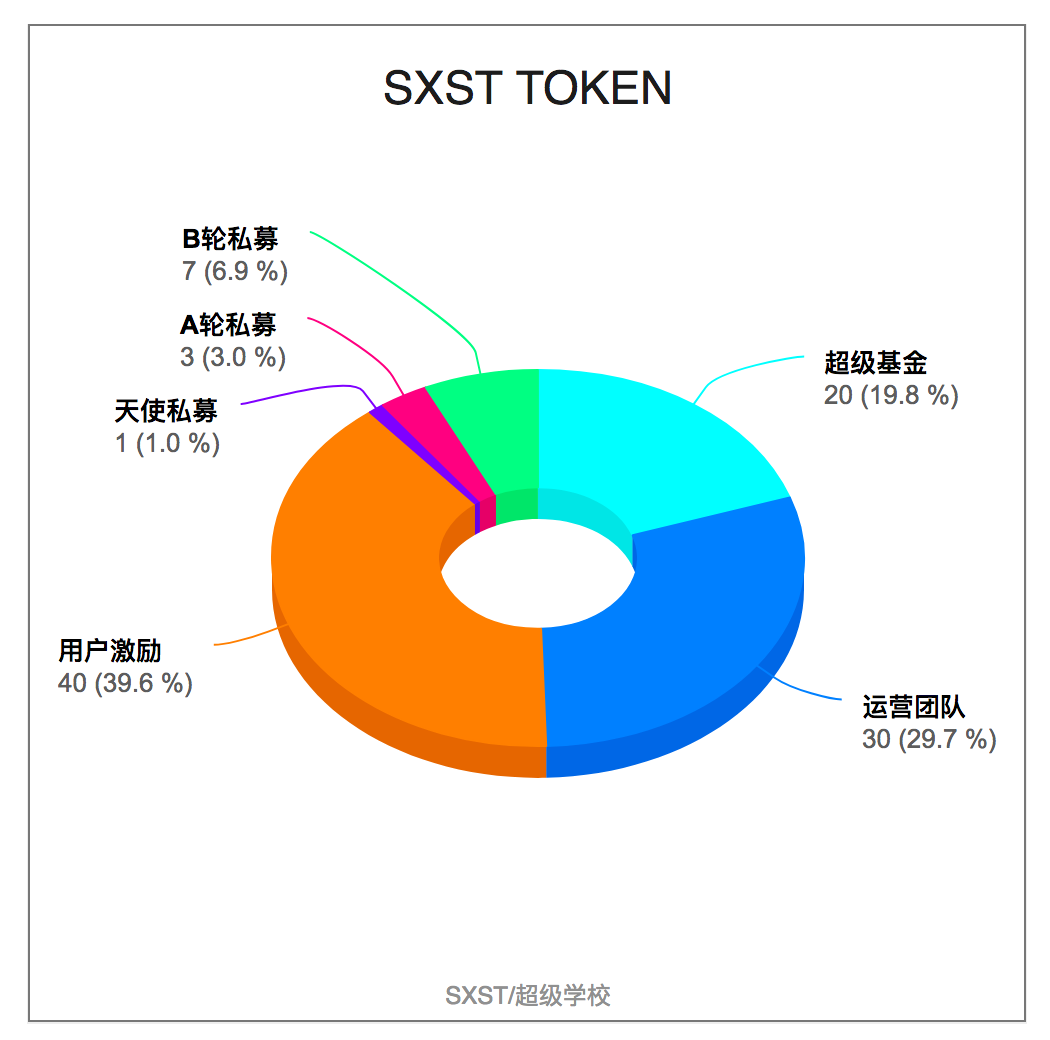
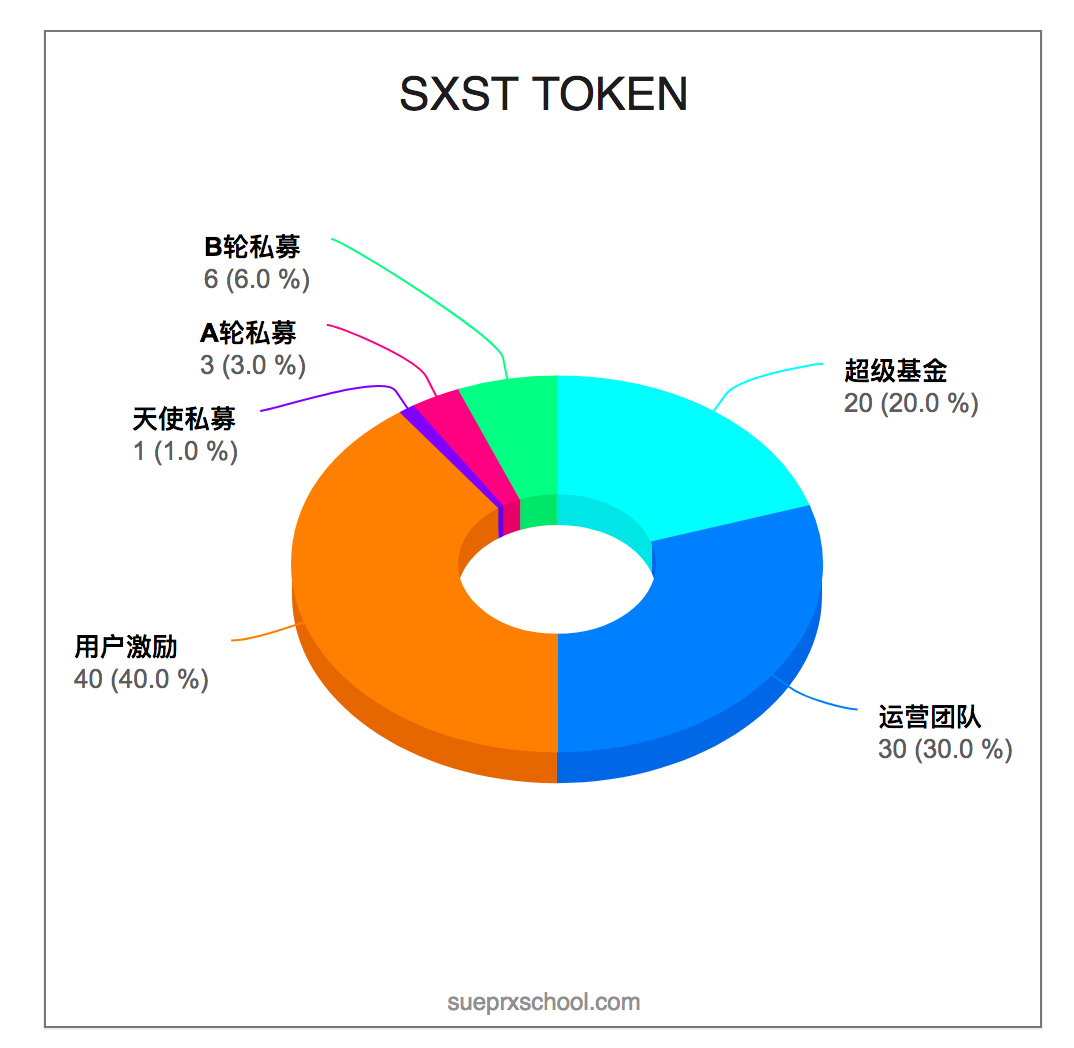
edit SXST

diff --git a/README.md b/README.md
@@ -12,11 +12,11 @@ SXST 的发放的总数量为：100亿 SXST；
 ## （二）代币分配
 
 ### 运营维护团队：
-（1）30 亿 SXST；
-其中 30 亿 用来成立超级基金，完成后续优质项目的孵化；
+（1）20 亿 SXST；
+其中 20 亿 用来成立超级基金，完成后续优质项目的孵化；
 
-（2）20亿 SXST；
-其中 20 亿 用来完成后续团队的奖励；
+（2）30 亿 SXST；
+其中 30 亿 用来完成后续团队的奖励；
 
 ### 用户奖励机制；
 
@@ -30,4 +30,4 @@ SXST 的发放的总数量为：100亿 SXST；
 分为 天使轮 、A 、B 轮完成机构私募；
 天使轮：1 亿 SXST； 融资 1000 万，完成团队化的运作；
 A 轮： 3 亿 SXST； 融资  1.5 亿，完成产品化的迭代；
-B 轮： 7 亿 SXST； 融资   5  亿，完成全球化的扩张；
+B 轮： 6 亿 SXST； 融资   5  亿，完成全球化的扩张；

diff --git a/TOKEN.md b/TOKEN.md
@@ -27,4 +27,4 @@ SXST 的发放的总数量为：100亿 SXST；
 分为 A 、B 、C 轮完成机构私募；
 A 轮：1 亿 SXST；融资 1000万，完成团队化的运作；
 B轮： 3 亿 SXST；融资 1.5 亿，完成产品化的迭代；
-C轮： 7 亿 SXST；融资   5 亿，完成全球化的扩张；
+C轮： 6 亿 SXST；融资   5 亿，完成全球化的扩张；
